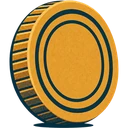
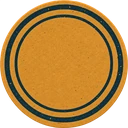
fix(1.0): bayangan koin dipisah dari asetnya, dan sandbox DB diisi ulang dari 0.9
Bug yang dilaporkan: bayangan kontak ikut terbang saat koin melompat. Betul,
dan penyebabnya ada di aset: koin hasil generate membawa bayangannya sendiri di
dalam PNG, jadi apa pun yang digerakkan ikut membawa bayangan itu.

- Koin dibuat ulang tanpa bayangan (prompt eksplisit: no contact shadow, no drop
  shadow, objek mengambang di latar transparan).
- Bayangan sekarang digambar CSS di titik tanah (`.ds-loading-coin-shadow`) dan
  bergerak berlawanan dengan koin: saat koin naik 18 px, bayangan menyusut ke
  skala .66 dan memudar ke opasitas .24; saat mendarat membesar dan menggelap.
  Easing dan jeda sama dengan koin, jadi keduanya terbaca satu gerakan.
- Kesalahan kedua yang ketemu saat memeriksa hasilnya: bayangan sempat
  diletakkan tepat di pita sobekan gelap di bawah struk. Diukur dengan sampel
  piksel, kotaknya memang menggelap (205/201/189 vs 228/230/228 di puncak),
  tapi mata tidak bisa memisahkannya dari pita — jadi tidak terlihat sama
  sekali. Dipindah ke atas permukaan kertas yang terang.
- Posisi koin dinaikkan (bottom 17%) supaya ada ruang bayangan di bawahnya, dan
  z-order dirapikan: struk 0, bayangan 1, koin 2.

Sekalian: sandbox DB diisi ulang dari salinan 0.9 produksi (10 tabel → 13,
identity 7 → 11 kolom, seluruh baris identity/bill/item/selection/payment/
bill_photo/payment_account/bill_invite/bill_participant sama persis, handle
kosong 0 dari 54). Prod 0.9 hanya dibaca, md5 tetap 64046fa… Backup sandbox
sebelumnya: bagiin.db.bak-20261031.
[…]

diff --git a/frontend/src/design-system.css b/frontend/src/design-system.css
@@ -1570,13 +1570,15 @@
 }
 .ds-loading-receipt {
   inset: 0;
+  z-index: 0;
   transform-origin: 50% 92%;
   animation: ds-wobble 3.4s cubic-bezier(.45, 0, .55, 1) infinite, ds-pop-in .5s cubic-bezier(.2, 1.05, .3, 1) both;
 }
 .ds-loading-coin {
-  width: 44%;
-  right: -3%;
-  bottom: 8%;
+  width: 42%;
+  right: -2%;
+  bottom: 17%;
+  z-index: 1;
   aspect-ratio: 1;
   transform-origin: 50% 100%;
   animation: ds-coin-bounce 1.55s cubic-bezier(.33, 1.4, .5, 1) infinite .3s;
@@ -1590,8 +1592,8 @@
 @keyframes ds-coin-bounce {
   0%, 100% { transform: translateY(0) scale(1, 1); }
   14% { transform: translateY(1px) scale(1.08, .9); }
-  46% { transform: translateY(-13px) scale(.96, 1.05); }
-  64% { transform: translateY(-13px) scale(1, 1); }
+  46% { transform: translateY(-18px) scale(.96, 1.05); }
+  64% { transform: translateY(-18px) scale(1, 1); }
   90% { transform: translateY(0) scale(1.02, .98); }
 }
 @keyframes ds-pop-in {
@@ -1623,4 +1625,39 @@
 @media (prefers-reduced-motion: reduce) {
   .ds-loading-receipt, .ds-loading-coin, .ds-loading-dots i { animation: none; }
   .ds-button, .recap-person, .recap-open-main, .bill-row, .app-banner { transition: none; }
+}
+
+
+/* Bayangan koin dipisah dari asetnya.
+   Sebelumnya bayangan itu ikut tergambar di dalam PNG koin, jadi saat koin
+   melompat bayangannya ikut terbang — benda yang meninggalkan tanah tidak
+   boleh membawa bayangannya. Sekarang bayangan digambar CSS di titik tanah dan
+   menyusut/transparan saat koin naik, dengan easing dan jeda yang sama. */
+.ds-loading-coin-shadow {
+  position: absolute;
+  /* duduk DI BAWAH tepi koin, bukan di dalam kotaknya: aset koin penuh sampai
+     tepi frame, jadi bayangan yang ditaruh di dalam kotak akan tertutup
+     koinnya sendiri dan tidak pernah terlihat */
+  /* di atas pita sobekan bawah struk, bukan di dalamnya: bayangan yang jatuh
+     tepat di pita gelap struk tidak terlihat sama sekali (diukur: kotaknya
+     memang menggelap, tapi mata tidak bisa memisahkannya dari pita) */
+  right: 3%;
+  bottom: 13%;
+  width: 26%;
+  height: 6px;
+  border-radius: 50%;
+  background: radial-gradient(closest-side, rgba(20, 47, 58, .62), rgba(20, 47, 58, .26) 60%, rgba(20, 47, 58, 0));
+  transform-origin: 50% 50%;
+  z-index: 1;
+  animation: ds-coin-shadow 1.55s cubic-bezier(.33, 1.4, .5, 1) infinite .3s;
+}
+@keyframes ds-coin-shadow {
+  0%, 100% { transform: scale(1, 1); opacity: .6; }
+  14% { transform: scale(1.1, 1); opacity: .66; }
+  46% { transform: scale(.66, 1); opacity: .24; }
+  64% { transform: scale(.66, 1); opacity: .24; }
+  90% { transform: scale(1.03, 1); opacity: .55; }
+}
+@media (prefers-reduced-motion: reduce) {
+  .ds-loading-coin-shadow { animation: none; }
 }

diff --git a/frontend/src/ds/primitives.tsx b/frontend/src/ds/primitives.tsx
@@ -499,6 +499,9 @@ export function LoadingState({
     <div className="ds-loading" role="status" aria-live="polite">
       <div className="ds-loading-art" aria-hidden="true">
         <span className="ds-loading-receipt" style={{ backgroundImage: `url(${loadingReceipt})` }} />
+        {/* bayangan digambar di sini, bukan di dalam PNG koin: yang di PNG ikut
+            terbang saat koin melompat */}
+        <span className="ds-loading-coin-shadow" />
         <span className="ds-loading-coin" style={{ backgroundImage: `url(${loadingCoin})` }} />
       </div>
       <div className="ds-loading-copy">

diff --git a/DESIGN_SYSTEM.md b/DESIGN_SYSTEM.md
@@ -368,6 +368,13 @@ Yang dipakai: satu aset per bagian, digerakkan dengan `transform` saja.
   detik (`cubic-bezier(.33,1.4,.5,1)` untuk overshoot), titik-titik 1,2 detik
   dengan jeda 150 ms. Semua kelipatan yang tidak saling kunci, jadi tidak pernah
   terlihat berulang.
+- **Bayangan tidak boleh ikut aset.** Bayangan kontak yang tergambar di dalam
+  PNG akan terbang bersama bendanya saat melompat. Bayangan digambar terpisah di
+  titik tanah, lalu menyusut dan memudar saat benda naik (skala .66, opasitas
+  .24) dan membesar saat mendarat. Dua kesalahan yang sempat terjadi: (1)
+  bayangan menempel di aset, (2) bayangan dipindah ke CSS tapi diletakkan tepat
+  di pita sobekan gelap struk — diukur memang menggelap, tapi mata tidak bisa
+  memisahkannya. Taruh di atas permukaan terang, bukan di atas bayangan lain.
 - **Squash dan stretch di titik kontak.** Koin mengecil-melebar (1.08/0.9) saat
   mendarat, memanjang (0.96/1.05) saat naik. Tanpa ini, benda terlihat seperti
   gambar yang digeser, bukan benda yang bergerak.
